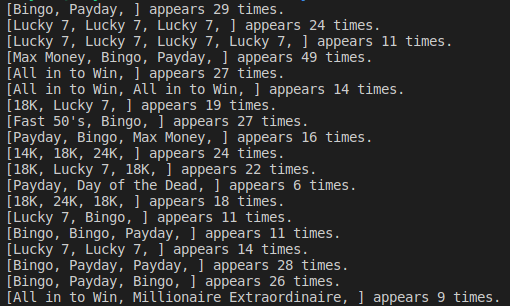
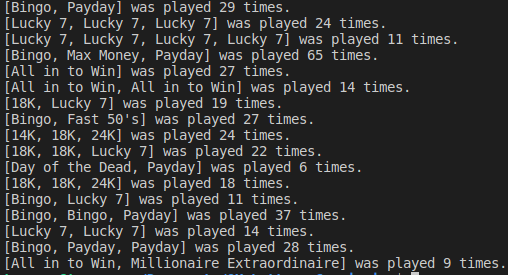
Cleaned up output and provided updated screenshot of output.

diff --git a/Program.cs b/Program.cs
@@ -7,7 +7,7 @@ namespace OK_Lottery_Commission
 {
     class Program
     {
-        static void loadJson()
+        static Dictionary<string, int> loadJson()
         {
             using (var reader = new StreamReader("lottery.json"))
             using (var jsonTextReader = new JsonTextReader(reader))
@@ -27,11 +27,19 @@ namespace OK_Lottery_Commission
 
                     game.Sort();
 
-                    string gameCombo = "";
-                    foreach (string name in game)
+                    string gameCombo = "[";
+                    for (int i = 0; i < game.Count; i++)
                     {
-                        gameCombo += string.Concat(name + ", ");
+                        if (i != game.Count - 1)
+                        {
+                            gameCombo += string.Concat(game[i] + ", ");
+                        }
+                        else
+                        {
+                            gameCombo += string.Concat(game[i]);
+                        }
                     }
+                    gameCombo += string.Concat("]");
 
                     // Store games within dictionary as keys.
                     // If a certain game combo is not in dictionary. Value is 1 as first one entered.
@@ -47,17 +55,18 @@ namespace OK_Lottery_Commission
                     }
                 }
 
-                // Loop through the count dictionary to output game combo and occurence.
-                foreach (var key in count.Keys)
-                {
-                    Console.WriteLine(key + " was played " + count[key] + " times.");
-                }
+                return count;
             }
         }
 
         static void Main(string[] args)
         {
-            loadJson();
+            Dictionary<string, int> gameData = loadJson();
+            // Loop through the count dictionary to output game combo and occurence.
+            foreach (var key in gameData.Keys)
+            {
+                Console.WriteLine(key + " was played " + gameData[key] + " times.");
+            }
         }
     }
 }
